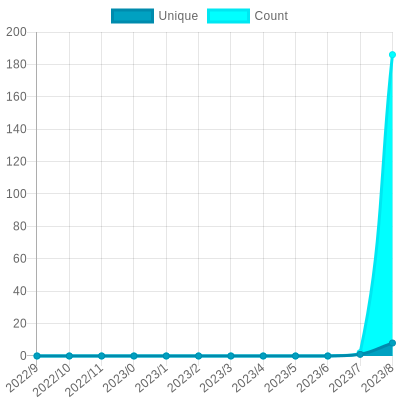
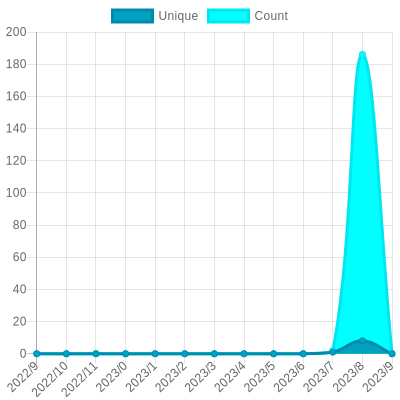
Update views

diff --git a/README.md b/README.md
@@ -26,7 +26,7 @@ The project created and maintained by [gayanvoice](https://github.com/gayanvoice
 			</a>
 		</td>
 		<td>
-			2022/9/29 1:02 AM UTC
+			2022/9/30 1:13 AM UTC
 		</td>
 		<td>
 			12
@@ -37,7 +37,7 @@ The project created and maintained by [gayanvoice](https://github.com/gayanvoice
 	</tr>
 </table>
 
-<small><i>Last updated on 2022/10/1 6:11 PM UTC</i></small>
+<small><i>Last updated on 2022/10/2 1:00 AM UTC</i></small>
 
 ## ✂Copy and 📋 Paste
 ### Total Views Badge

diff --git a/readme/465495654/year.md b/readme/465495654/year.md
@@ -20,6 +20,17 @@
 	</tr>
 	<tr>
 		<td>
+			<code>2022/10/1</code>
+		</td>
+		<td>
+			<code>0</code>
+		</td>
+		<td>
+			<code>0</code>
+		</td>
+	</tr>
+	<tr>
+		<td>
 			<code>2022/9/1</code>
 		</td>
 		<td>
@@ -153,7 +164,7 @@
 </table>
 
 </details>
-<small><i>Last updated on 2022/10/1 6:10 PM UTC</i></small>
+<small><i>Last updated on 2022/10/2 1:00 AM UTC</i></small>
 
 ## ✂Copy and 📋 Paste
 ### SVG Badge
